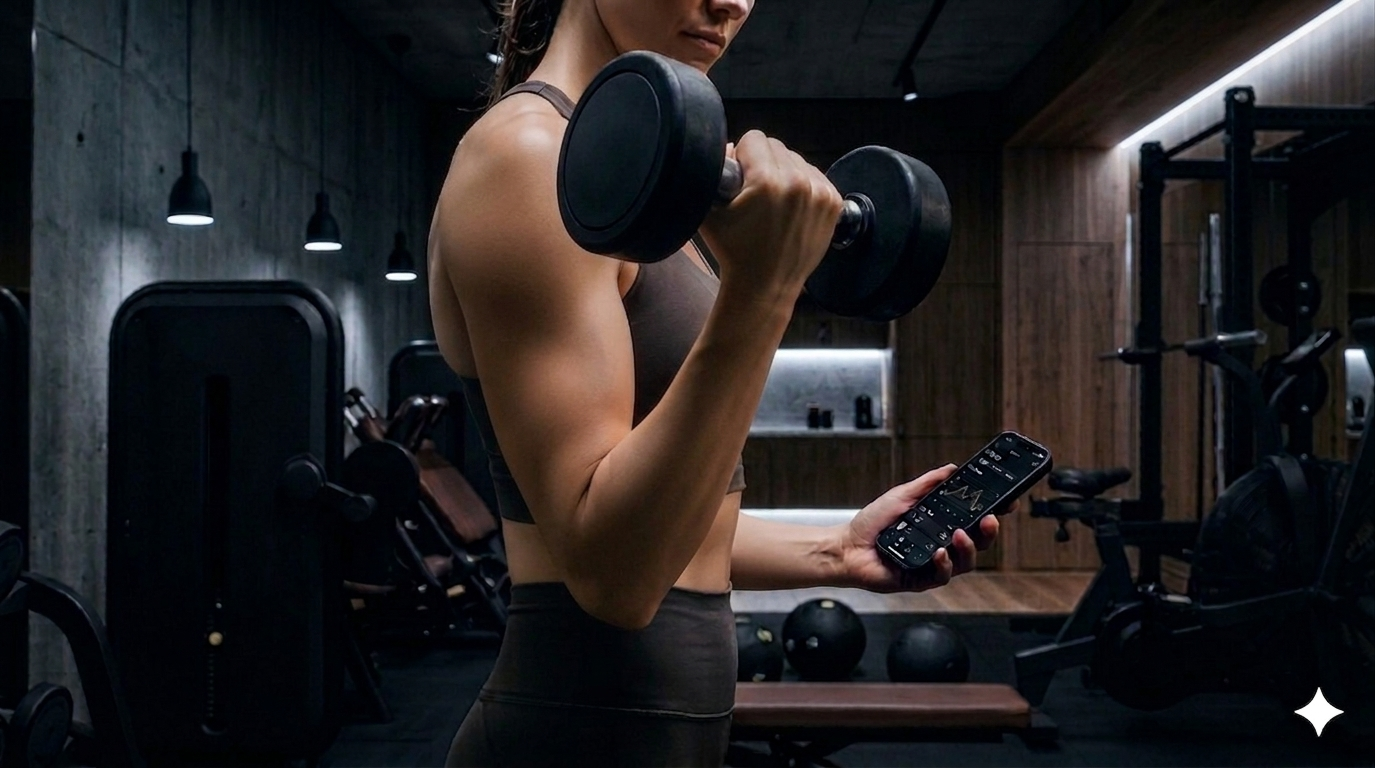
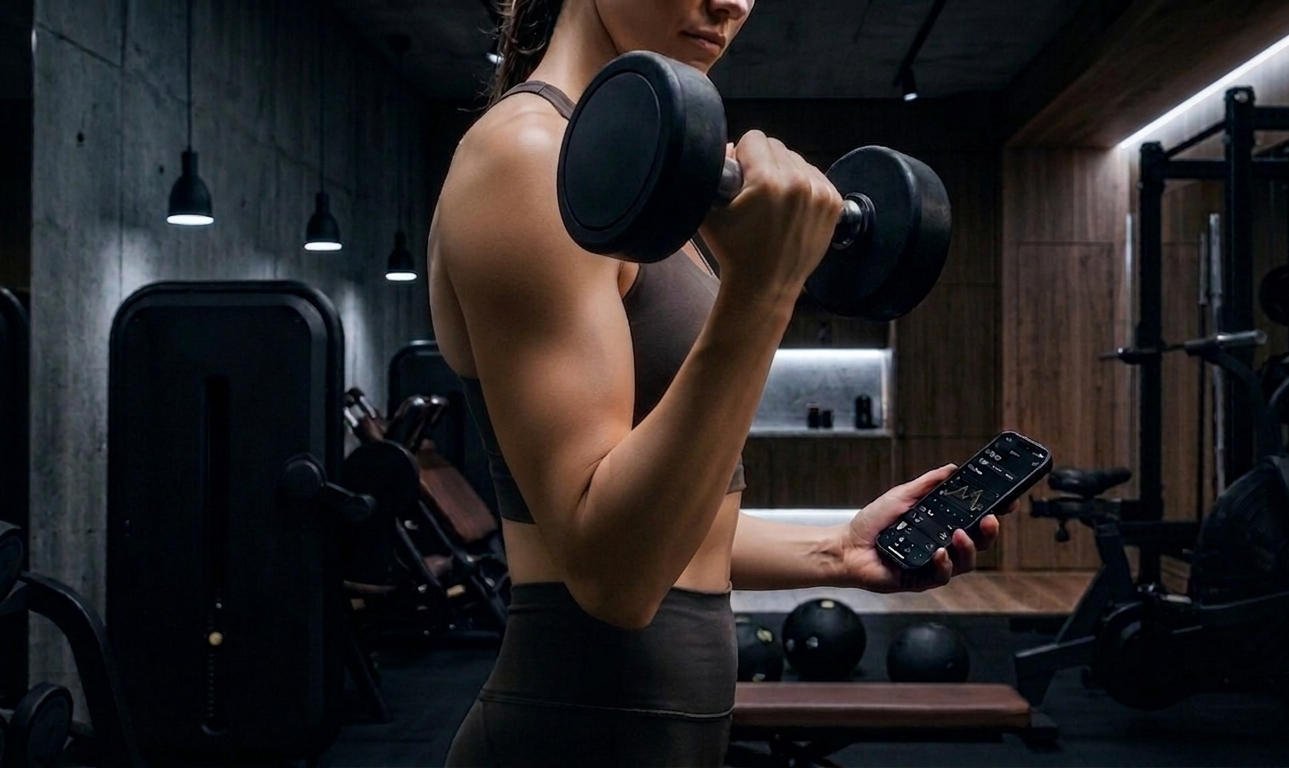
fix scroll snap mobile

diff --git a/app/globals.css b/app/globals.css
@@ -113,3 +113,18 @@ html {
   scroll-snap-align: start;
   scroll-snap-stop: always;
 }
+
+@media (min-width: 768px) {
+  html {
+    scroll-snap-type: y mandatory;
+    overflow-y: scroll;
+    scroll-behavior: smooth;
+  }
+
+  #overview,
+  #bio,
+  #projects {
+    scroll-snap-align: start;
+    scroll-snap-stop: always;
+  }
+}
